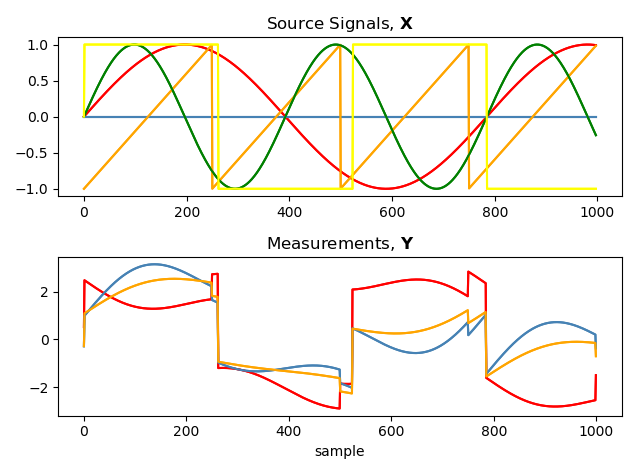
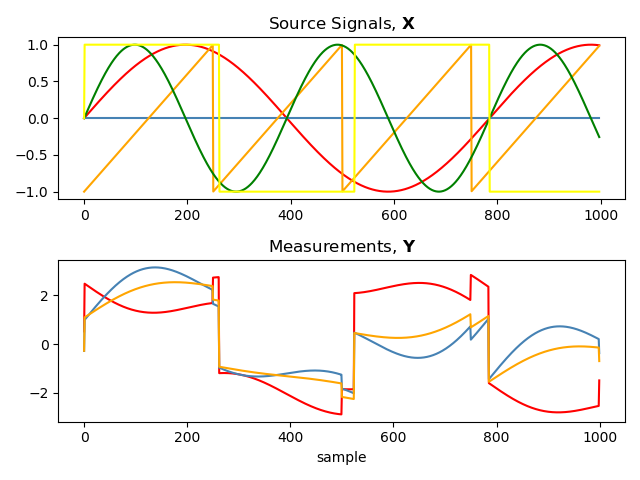
T

diff --git a/Python_kode/EEGdatascript_new/test_simple1.py b/Python_kode/EEGdatascript_new/test_simple1.py
@@ -23,26 +23,26 @@ import simulated_data
 np.random.seed(12345) 
 
 # Cov-DL1
-#M = 3
-#L = 1000
-#k = 4
-#N = 8
-#n_seg = 1
-
-# Cov-DL2
 M = 3
 L = 1000
 k = 4
-N = 5 
+N = 8
 n_seg = 1
 
-Y, A_real, X_real = simulated_data.mix_signals(L,M,version=None)
+## Cov-DL2
+#M = 3
+#L = 1000
+#k = 4
+#N = 5 
+#n_seg = 1
+
+Y, A_real, X_real = simulated_data.mix_signals(L,M,version=1)
 
 Y = np.reshape(Y, (1,Y.shape[0], Y.shape[1]))
 X_real = np.reshape(X_real,(1, X_real.shape[0],X_real.shape[1]))
 X_real = X_real.T[0:L-2].T
 
-A_result, X_result, A_init = Main_Algorithm(Y, M, L, n_seg, A_real, L_covseg=10)
+A_result, X_result = Main_Algorithm(Y, M, L, n_seg, A_real, L_covseg=10)
 A_mse = MSE_one_error(A_real,A_result[0])
 A_mse0 = MSE_one_error(A_real,np.zeros(A_real.shape))
 mse_array, mse_avg = simulated_data.MSE_segments(X_real[0],X_result[0])
@@ -51,53 +51,53 @@ print('MSE_A_0 = {}'.format(np.round_(A_mse0,decimals=3)))
 print('MSE_X = {}'.format(np.round_(mse_avg,decimals=3)))
 
 
-##### plot
-#segment = 0
-#plt.figure(0)
-#models = [X_real[segment], Y[segment]]
-#names = ['Source Signals, $\mathbf{X}$',
-#         'Measurements, $\mathbf{Y}$',
-#         ]
-#colors = ['red', 'steelblue', 'orange', 'green', 'yellow', 'blue', 'cyan',
-#          'purple']
-#
-#for ii, (model, name) in enumerate(zip(models, names), 1):
-#    plt.subplot(2, 1, ii)
-#    plt.title(name)
-#    for sig, color in zip(model, colors):
-#        plt.plot(sig, color=color)
-#
-#plt.tight_layout()
-#plt.xlabel('sample')
-#plt.tight_layout()
-#plt.show()
-#plt.savefig('figures/simple_data2.png')
-#
-#plt.figure(1)
-#plt.title('Comparison of Mixing Matrix - COV-DL1')
-#plt.plot(np.reshape(A_real, (A_real.size)), 'o-g',label=r'True $\mathbf{A}$')
-#plt.plot(np.reshape(A_result[segment], (A_result[segment].size)),'o-r', label=r'Estimate $\hat{\mathbf{A}}$')
-#plt.legend()
-#plt.xlabel('index')
-#plt.show
-##plt.savefig('figures/COV1_simple.png')
-#
-#plt.figure(2)
-#plt.title('Source matrix - M-SBL')
-#nr_plot=0
-#for i in range(len(X_real.T[0])):
-#    if np.any(X_real[segment][i]!=0) or np.any(X_result[segment][i]!=0):
-#        
-#        nr_plot += 1
-#        plt.subplot(k, 1, nr_plot)
-#        #plt.xticks(" ")
-#       
-#        plt.plot(X_real[segment][i], 'g',label='Real X')
-#        plt.plot(X_result[segment][i],'r', label='Recovered X')
-#
-#plt.legend(loc='lower right')
-#plt.xlabel('sample')
-#plt.tight_layout()
-#plt.show
-#plt.savefig('figures/M-SBL_simple2.png')
-#
+#### plot
+segment = 0
+plt.figure(0)
+models = [X_real[segment], Y[segment]]
+names = ['Source Signals, $\mathbf{X}$',
+         'Measurements, $\mathbf{Y}$',
+         ]
+colors = ['red', 'steelblue', 'orange', 'green', 'yellow', 'blue', 'cyan',
+          'purple']
+
+for ii, (model, name) in enumerate(zip(models, names), 1):
+    plt.subplot(2, 1, ii)
+    plt.title(name)
+    for sig, color in zip(model, colors):
+        plt.plot(sig, color=color)
+
+plt.tight_layout()
+plt.xlabel('sample')
+plt.tight_layout()
+plt.show()
+plt.savefig('figures/simple_data2.png')
+
+plt.figure(1)
+plt.title('Comparison of Mixing Matrix - COV-DL1')
+plt.plot(np.reshape(A_real, (A_real.size)), 'o-g',label=r'True $\mathbf{A}$')
+plt.plot(np.reshape(A_result[segment], (A_result[segment].size)),'o-r', label=r'Estimate $\hat{\mathbf{A}}$')
+plt.legend()
+plt.xlabel('index')
+plt.show
+#plt.savefig('figures/COV1_simple.png')
+
+plt.figure(2)
+plt.title('Source matrix - M-SBL')
+nr_plot=0
+for i in range(len(X_real.T[0])):
+    if np.any(X_real[segment][i]!=0) or np.any(X_result[segment][i]!=0):
+        
+        nr_plot += 1
+        plt.subplot(k, 1, nr_plot)
+        #plt.xticks(" ")
+       
+        plt.plot(X_real[segment][i], 'g',label='Real X')
+        plt.plot(X_result[segment][i],'r', label='Recovered X')
+
+plt.legend(loc='lower right')
+plt.xlabel('sample')
+plt.tight_layout()
+plt.show
+plt.savefig('figures/M-SBL_simple2.png')
+

diff --git a/Python_kode/EEGdatascript_new/test_simple2.py b/Python_kode/EEGdatascript_new/test_simple2.py
@@ -37,52 +37,52 @@ print('MSE_A_0 = {}'.format(np.round_(A_mse0,decimals=3)))
 print('MSE_X = {}'.format(np.round_(mse_avg,decimals=3)))
 
 ##### plot
-#segment = 0
-#plt.figure(0)
-#models = [X_real[segment], Y[segment]]
-#names = ['Source Signals, $\mathbf{X}$',
-#         'Measurements, $\mathbf{Y}$',
-#         ]
-#colors = ['red', 'steelblue', 'orange', 'green', 'yellow', 'blue', 'cyan',
-#          'purple']
-#
-#for ii, (model, name) in enumerate(zip(models, names), 1):
-#    plt.subplot(2, 1, ii)
-#    plt.title(name)
-#    for sig, color in zip(model, colors):
-#        plt.plot(sig, color=color)
-#
-#plt.tight_layout()
-#plt.xlabel('sample')
-#plt.tight_layout()
-#plt.show()
-#plt.savefig('figures/simple_data.png')
-#
-#plt.figure(1)
-#plt.title('Comparison of Mixing Matrix - COV-DL2')
-#plt.plot(np.reshape(A_real, (A_real.size)), 'o-g',label=r'True $\mathbf{A}$')
-#plt.plot(np.reshape(A_result[segment], (A_result[segment].size)),'o-r', label=r'Estimate $\hat{\mathbf{A}}$')
-#plt.plot(np.reshape(A_init,(A_init.size)), 'o-b',label=r'init $\mathbf{A}$')
-#plt.legend()
-#plt.xlabel('index')
-#plt.show
-#plt.savefig('figures/COV2_simple.png')
-#
-#plt.figure(2)
-#plt.title('Source matrix - M-SBL')
-#nr_plot=0
-#for i in range(len(X_real.T[0])):
-#    if np.any(X_real[segment][i]!=0) or np.any(X_result[segment][i]!=0):
-#        
-#        nr_plot += 1
-#        plt.subplot(k, 1, nr_plot)
-#       
-#        plt.plot(X_real[segment][i], 'g',label='Real X')
-#        plt.plot(X_result[segment][i],'r',label='Recovered X')
-#
-#
-#plt.legend()
-#plt.xlabel('sample')
-#plt.tight_layout()
-#plt.show
-#plt.savefig('figures/M-SBL_simple1.png')
+segment = 0
+plt.figure(0)
+models = [X_real[segment], Y[segment]]
+names = ['Source Signals, $\mathbf{X}$',
+         'Measurements, $\mathbf{Y}$',
+         ]
+colors = ['red', 'steelblue', 'orange', 'green', 'yellow', 'blue', 'cyan',
+          'purple']
+
+for ii, (model, name) in enumerate(zip(models, names), 1):
+    plt.subplot(2, 1, ii)
+    plt.title(name)
+    for sig, color in zip(model, colors):
+        plt.plot(sig, color=color)
+
+plt.tight_layout()
+plt.xlabel('sample')
+plt.tight_layout()
+plt.show()
+plt.savefig('figures/simple_data.png')
+
+plt.figure(1)
+plt.title('Comparison of Mixing Matrix - COV-DL2')
+plt.plot(np.reshape(A_real, (A_real.size)), 'o-g',label=r'True $\mathbf{A}$')
+plt.plot(np.reshape(A_result[segment], (A_result[segment].size)),'o-r', label=r'Estimate $\hat{\mathbf{A}}$')
+plt.plot(np.reshape(A_init,(A_init.size)), 'o-b',label=r'init $\mathbf{A}$')
+plt.legend()
+plt.xlabel('index')
+plt.show
+plt.savefig('figures/COV2_simple.png')
+
+plt.figure(2)
+plt.title('Source matrix - M-SBL')
+nr_plot=0
+for i in range(len(X_real.T[0])):
+    if np.any(X_real[segment][i]!=0) or np.any(X_result[segment][i]!=0):
+        
+        nr_plot += 1
+        plt.subplot(k, 1, nr_plot)
+       
+        plt.plot(X_real[segment][i], 'g',label='Real X')
+        plt.plot(X_result[segment][i],'r',label='Recovered X')
+
+
+plt.legend()
+plt.xlabel('sample')
+plt.tight_layout()
+plt.show
+plt.savefig('figures/M-SBL_simple1.png')

diff --git a/Python_kode/EEGdatascript_new/main.py b/Python_kode/EEGdatascript_new/main.py
@@ -54,6 +54,6 @@ def Main_Algorithm(Y, M, L, n_seg, A_real, L_covseg = 10):
         X_result[i] = X_rec
         
     if N <= (M*(M+1))/2.:
-        return A_result, X_result
+        return A_result, X_result, A_init
     
     return A_result, X_result
